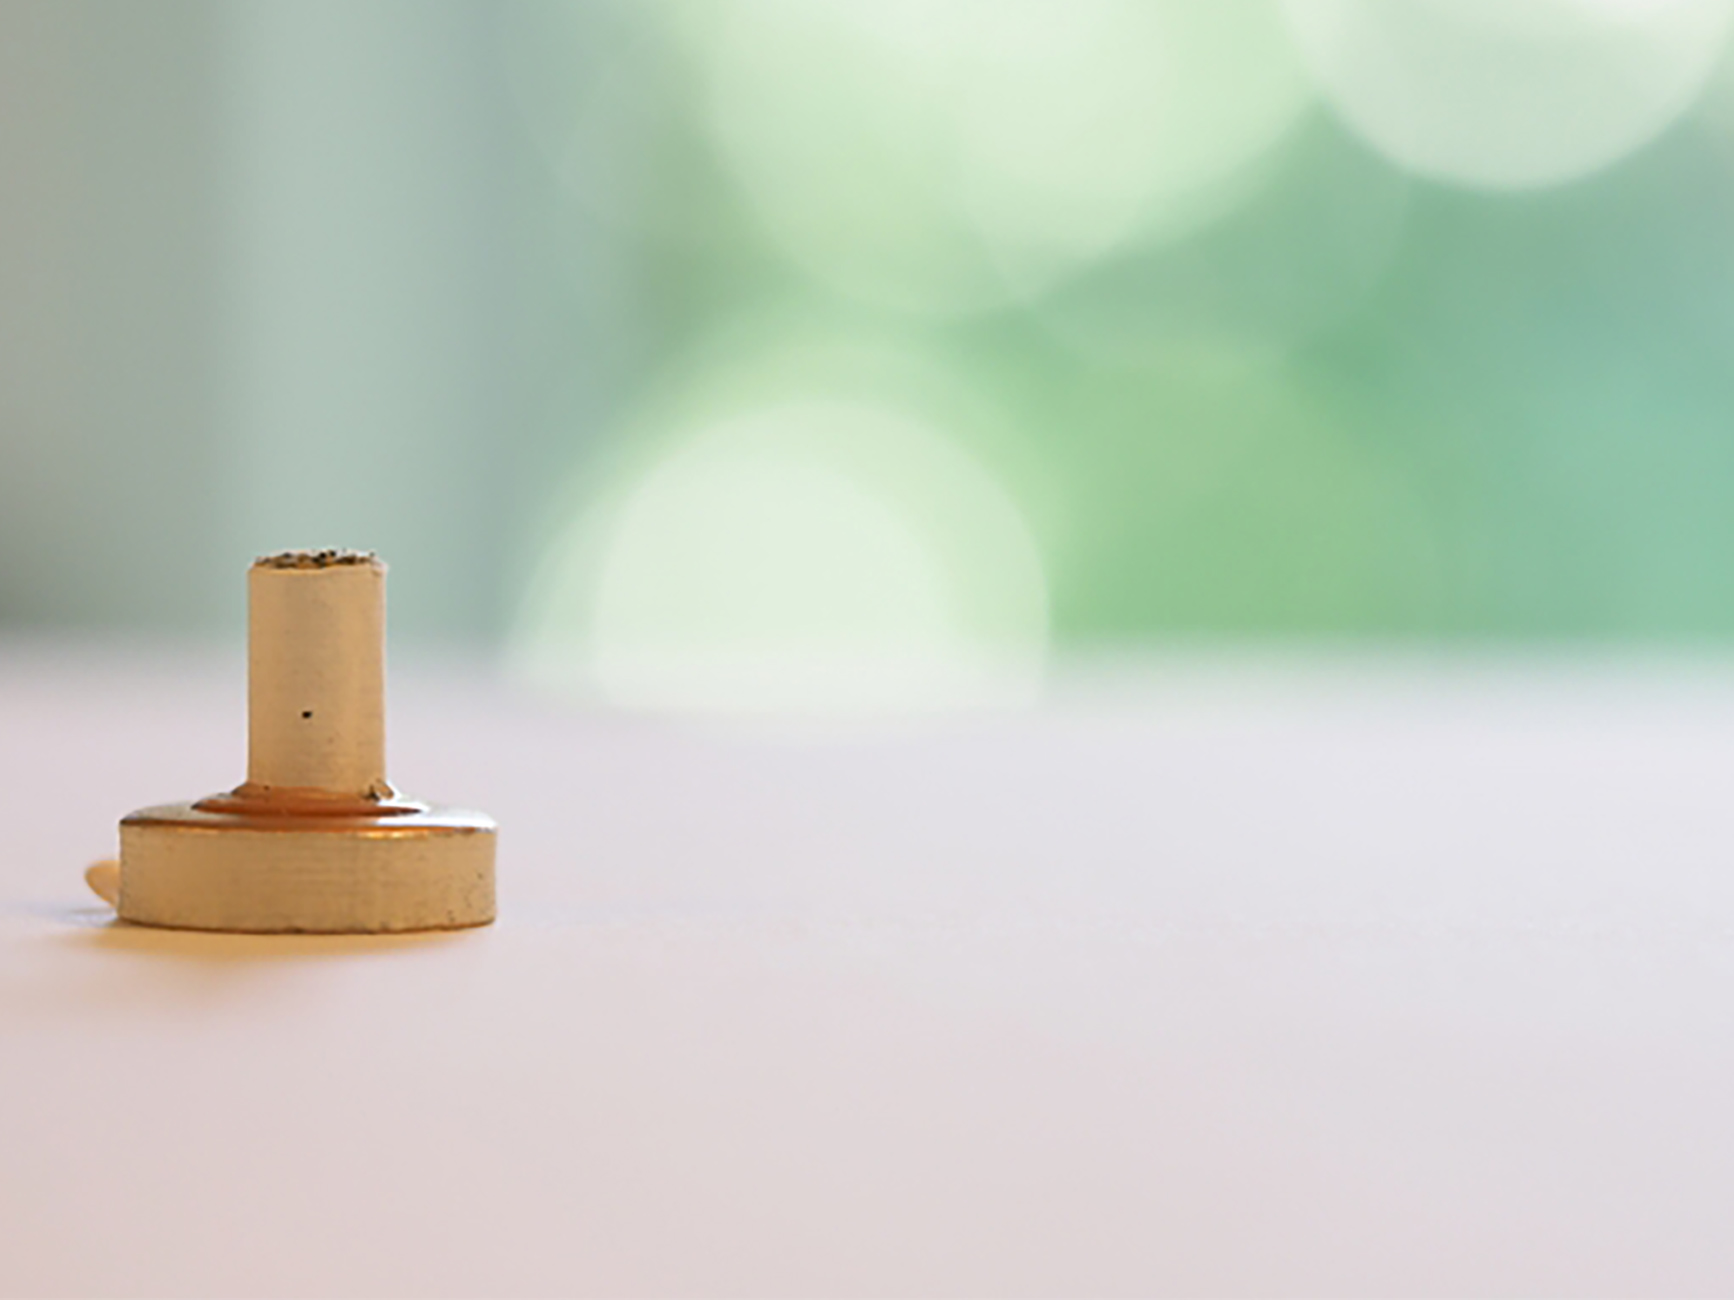
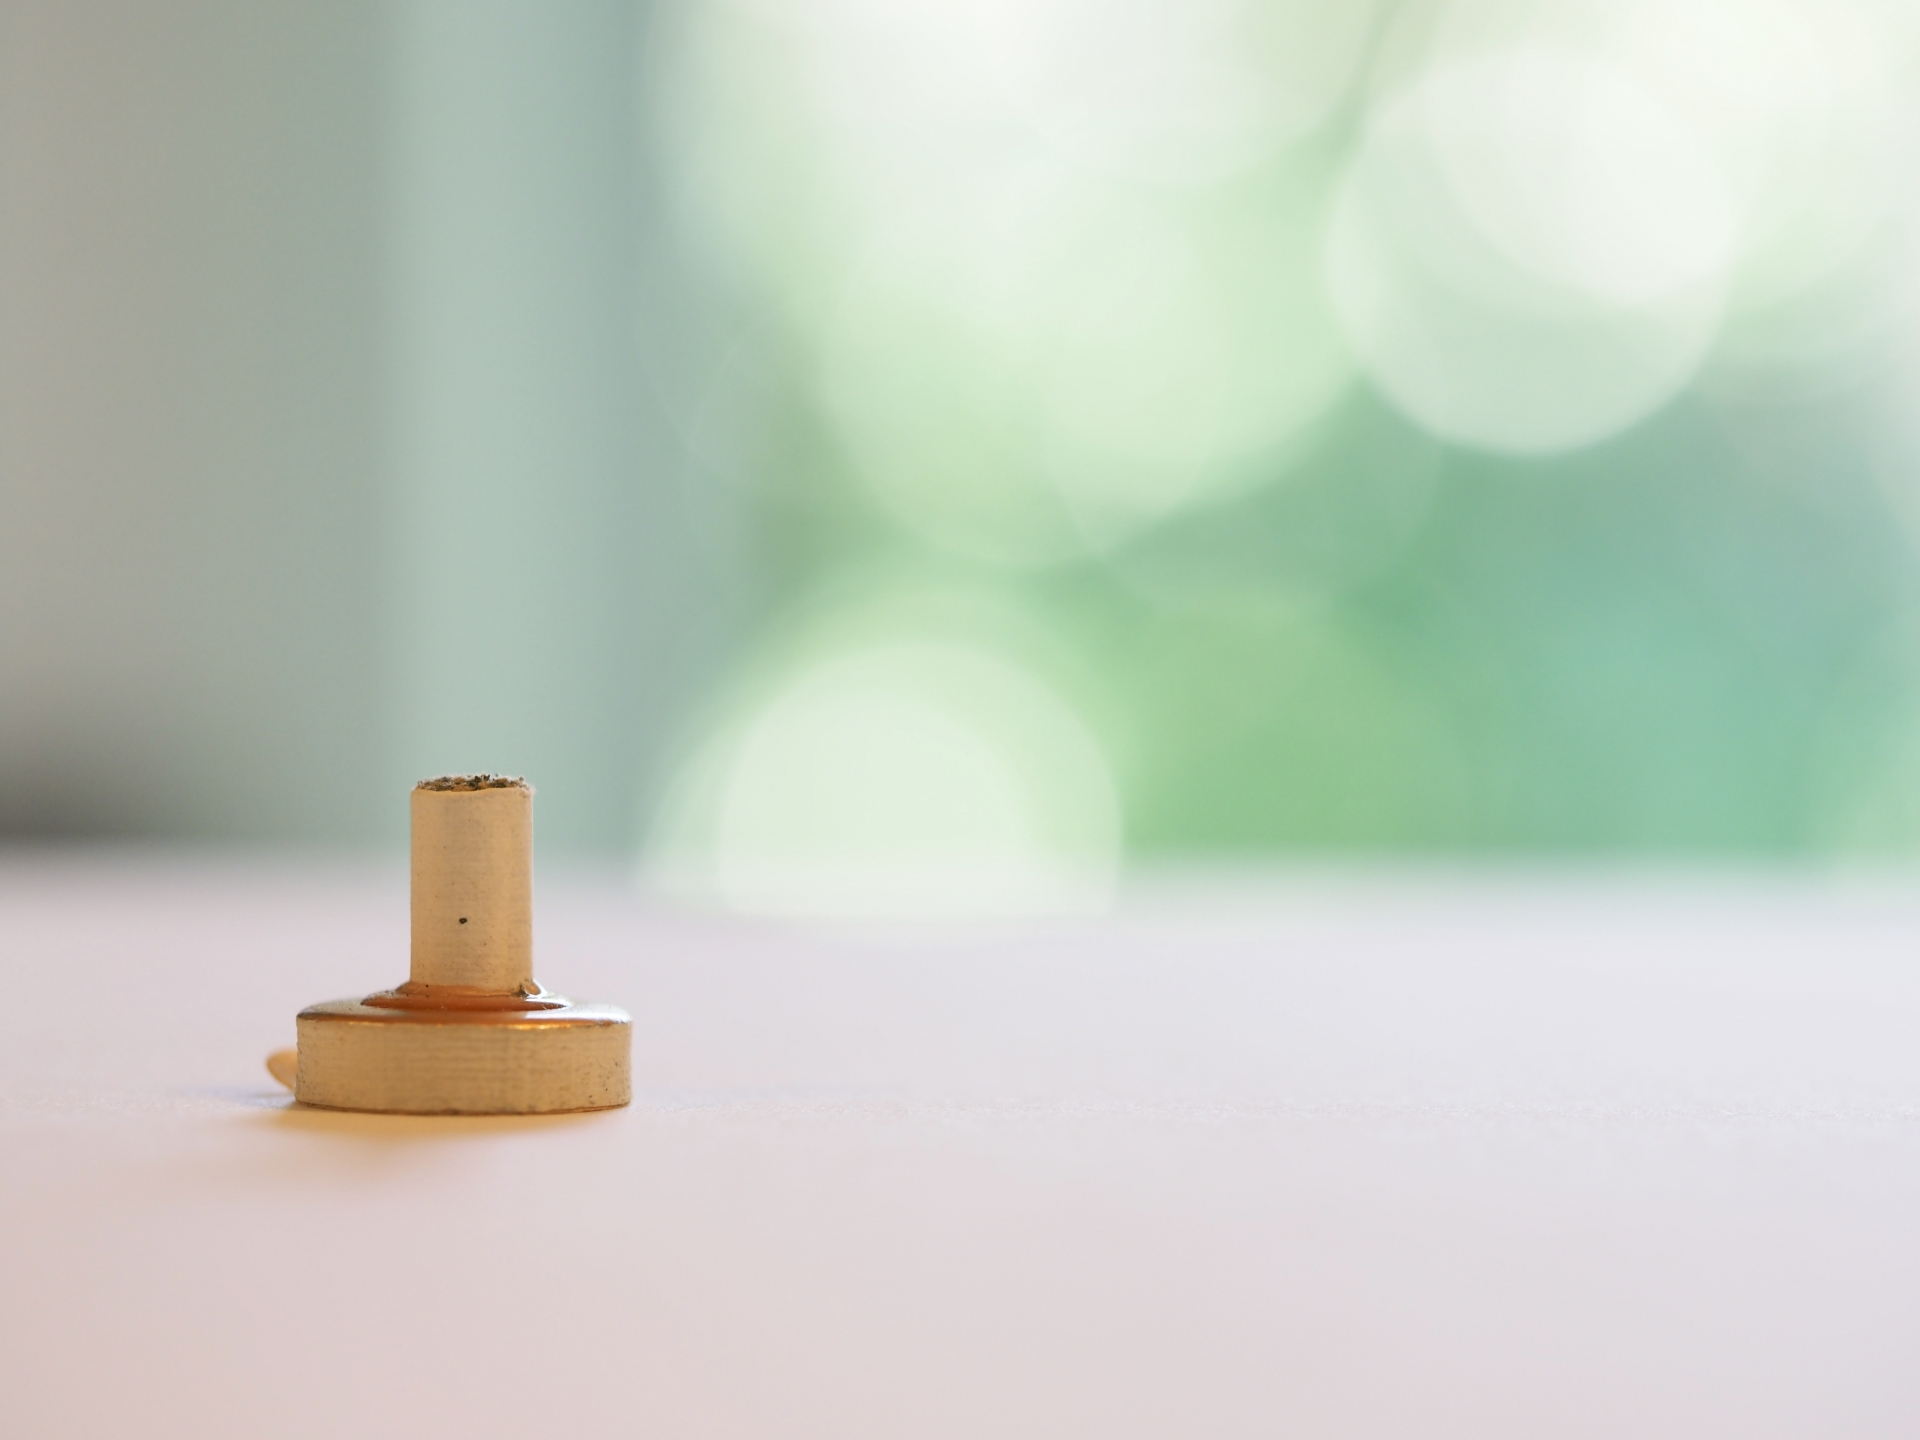
top画変更

diff --git a/src/index.html b/src/index.html
@@ -50,15 +50,16 @@
       </div>
     </header>
     <main>
-      <div
-        class="bg-top-bg min-h-screen bg-cover bg-center object-cover aspect-4/3 relative"
-      >
-        <div
-          class="flex flex-col text-center absolute top-1/3 left-2/4 animate-appear"
-        >
-          <h1 class="text-6xl font-bold mb-3">心と体にやさしいお灸</h1>
-          <h1 class="text-6xl font-bold mb-8">広島健康堂</h1>
-        </div>
+      <div class="aspect-4/3 relative">
+        <img src="img/top.jpg" alt="広島健康堂" class="mx-auto" />
+        <!-- <div class="bg-top-bg bg-contain object-cover">
+          <div
+            class="flex flex-col text-center absolute top-1/3 left-2/4 animate-appear"
+          >
+            <h1 class="text-6xl font-bold mb-3">心と体にやさしいお灸</h1>
+            <h1 class="text-6xl font-bold mb-8">広島健康堂</h1>
+          </div>
+        </div> -->
       </div>
       <div
         class="container mx-auto mt-14 px-4 xl:flex justify-between flex-row-reverse"

diff --git a/dist/output.css b/dist/output.css
@@ -985,13 +985,27 @@ video {
   background-size: cover;
 }
 
+.bg-contain {
+  background-size: contain;
+}
+
 .bg-center {
   background-position: center;
+}
+
+.object-contain {
+  -o-object-fit: contain;
+     object-fit: contain;
 }
 
 .object-cover {
   -o-object-fit: cover;
      object-fit: cover;
+}
+
+.object-scale-down {
+  -o-object-fit: scale-down;
+     object-fit: scale-down;
 }
 
 .p-2 {
@@ -1000,6 +1014,10 @@ video {
 
 .p-8 {
   padding: 48px;
+}
+
+.p-4 {
+  padding: 20px;
 }
 
 .px-8 {
